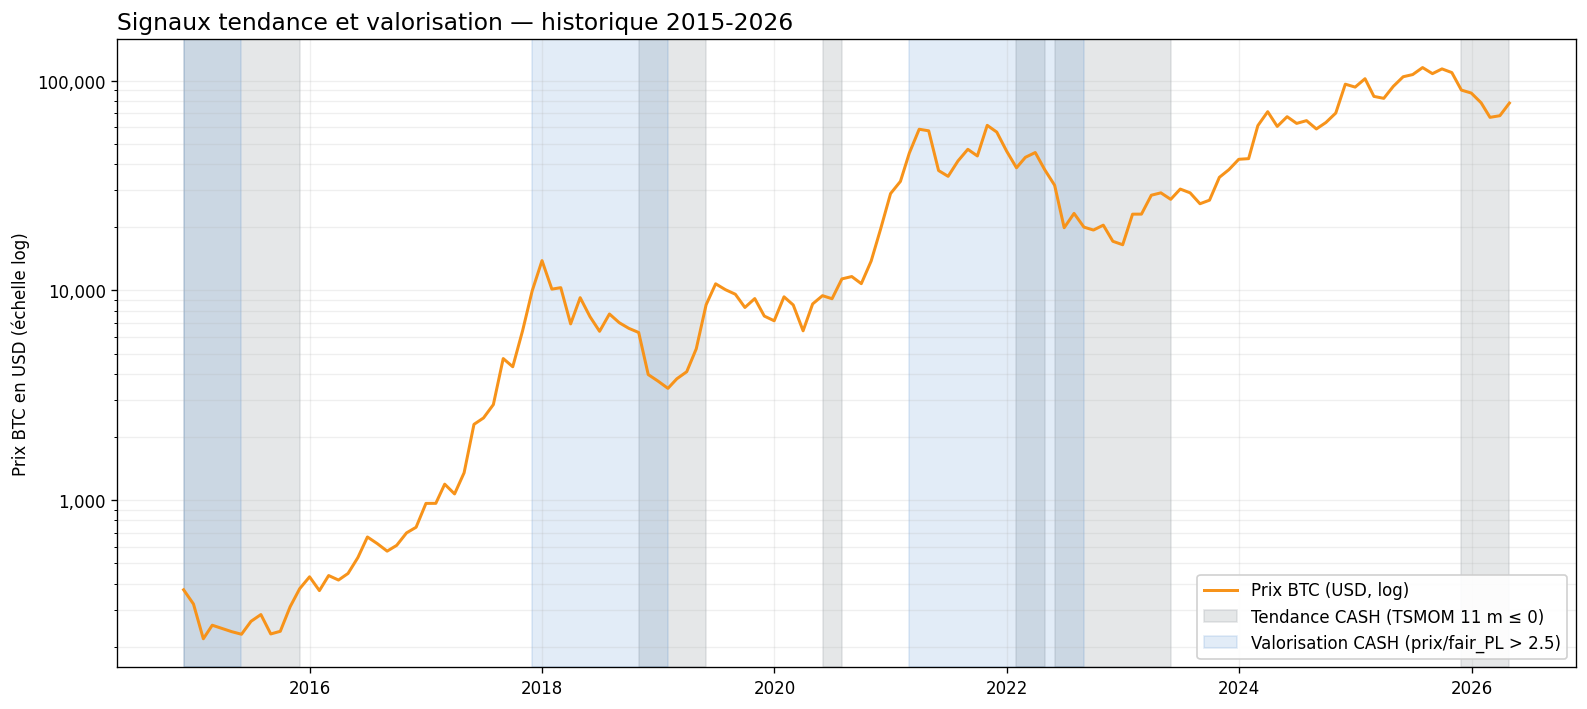
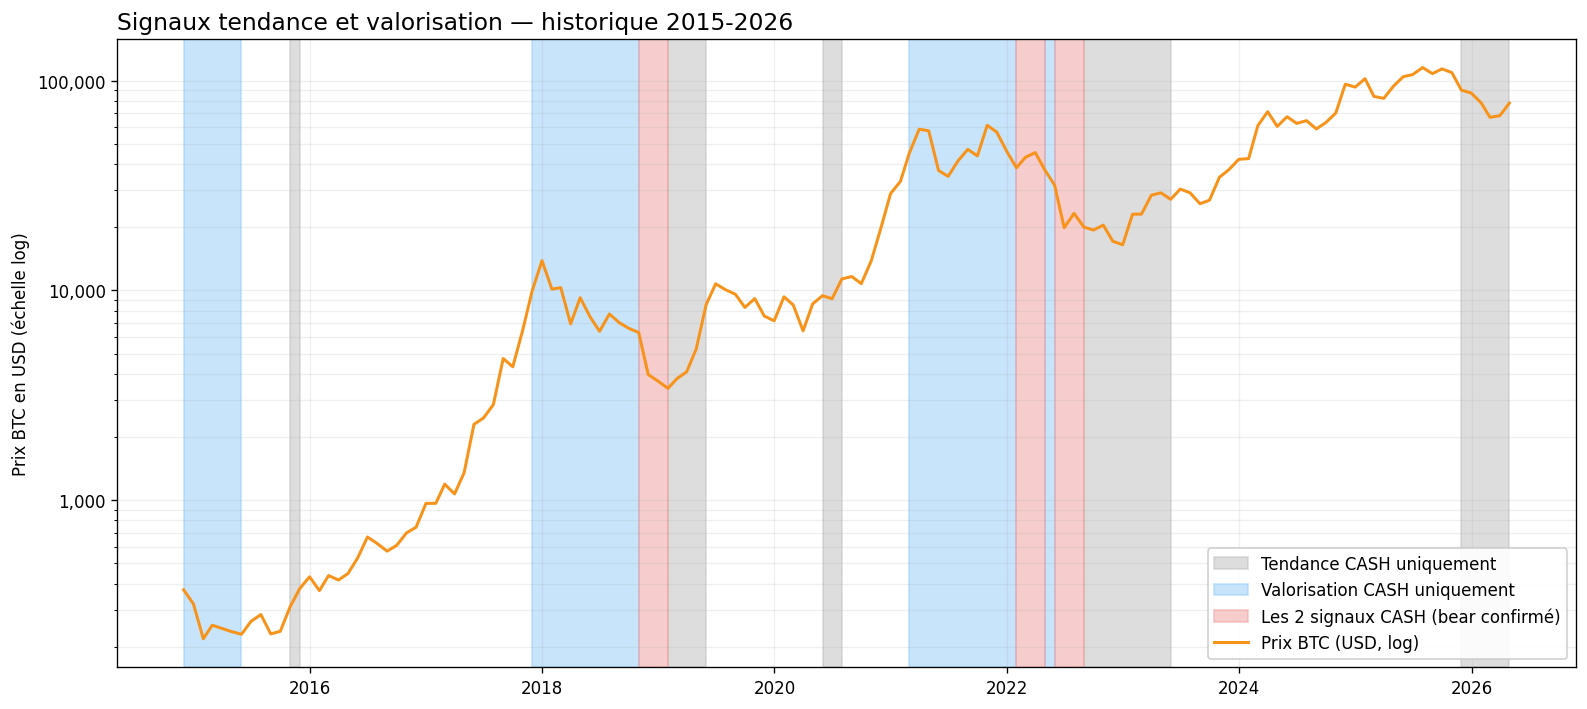
docs(methodologie): recode signaux_history as 3 mutually-exclusive states
The previous 2-colour shading (grey for tendance CASH, blue for
valorisation CASH) produced 3 visual states because the two zones
overlapped, while the legend only listed 2. Reader had to guess that
overlap meant both CASH.

Refactor: a month now falls into exactly one of four buckets, and the
three CASH states each get a dedicated colour + legend entry:

- grey      tendance CASH only, momentum weak, price still reasonable
- blue      valorisation CASH only, price overheated, trend still up
- pink      both signals CASH, bear confirmed, strategy at 0 pct

Caption in methodologie.md updated to match.

diff --git a/engine/src/chillbtc/methodology_figures.py b/engine/src/chillbtc/methodology_figures.py
@@ -46,6 +46,11 @@ BUY_GREEN = "#2E7D32"
 BAND_BLUE = "#1565C0"
 ANNOT_BG = "#FFF8E1"
 
+# Three mutually-exclusive CASH states (tendance, valorisation, both)
+COLOR_TEND_ONLY = "#BDBDBD"   # grey, momentum weak, price still reasonable
+COLOR_VALO_ONLY = "#90CAF9"   # light blue, price overheated, trend still up
+COLOR_BOTH_CASH = "#EF9A9A"   # light red, bear confirmed
+
 
 def _load_monthly() -> pd.DataFrame:
     repo = Path(__file__).resolve().parents[2]
@@ -53,25 +58,42 @@ def _load_monthly() -> pd.DataFrame:
     return pd.read_csv(cache, parse_dates=["date"], index_col="date")
 
 
-def _shade_cash_zones(ax, signal: pd.Series, color: str, alpha: float, label: str) -> None:
-    """Fill between months where the signal is CASH (0)."""
-    s = signal.fillna(0.0).astype(float).to_numpy()
-    dates = signal.index.to_numpy()
-    in_cash = False
-    start = None
-    first = True
-    for i, v in enumerate(s):
-        if v == 0.0 and not in_cash:
-            start = dates[i]
-            in_cash = True
-        elif v == 1.0 and in_cash:
-            ax.axvspan(start, dates[i], color=color, alpha=alpha,
+def _shade_three_states(ax, sig_tend: pd.Series, sig_valo: pd.Series) -> None:
+    """Shade the three mutually-exclusive CASH states with distinct colors.
+
+    Each month falls into exactly one of four buckets (BUY+BUY, tendance CASH
+    only, valorisation CASH only, both CASH). BUY+BUY is left unshaded; the
+    three CASH states each get a dedicated color and a single legend entry.
+    """
+    tend = sig_tend.fillna(1.0).astype(float).to_numpy()
+    valo = sig_valo.fillna(1.0).astype(float).to_numpy()
+    dates = sig_tend.index.to_numpy()
+
+    state_defs = [
+        ("tend_only", (tend == 0) & (valo == 1), COLOR_TEND_ONLY,
+         "Tendance CASH uniquement"),
+        ("valo_only", (tend == 1) & (valo == 0), COLOR_VALO_ONLY,
+         "Valorisation CASH uniquement"),
+        ("both_cash", (tend == 0) & (valo == 0), COLOR_BOTH_CASH,
+         "Les 2 signaux CASH (bear confirmé)"),
+    ]
+    alpha = 0.50
+    for _, mask, color, label in state_defs:
+        in_zone = False
+        start = None
+        first = True
+        for i, on in enumerate(mask):
+            if on and not in_zone:
+                start = dates[i]
+                in_zone = True
+            elif not on and in_zone:
+                ax.axvspan(start, dates[i], color=color, alpha=alpha,
+                           label=label if first else None)
+                first = False
+                in_zone = False
+        if in_zone:
+            ax.axvspan(start, dates[-1], color=color, alpha=alpha,
                        label=label if first else None)
-            first = False
-            in_cash = False
-    if in_cash:
-        ax.axvspan(start, dates[-1], color=color, alpha=alpha,
-                   label=label if first else None)
 
 
 def plot_signaux_history(monthly: pd.DataFrame, out: Path) -> None:
@@ -82,12 +104,9 @@ def plot_signaux_history(monthly: pd.DataFrame, out: Path) -> None:
     )
 
     fig, ax = plt.subplots(figsize=(13.33, 6.0), dpi=120)
+    _shade_three_states(ax, sig_tend, sig_valo)
     ax.semilogy(monthly.index, monthly["close_usd"], color=BTC_ORANGE,
                 linewidth=1.8, label="Prix BTC (USD, log)")
-    _shade_cash_zones(ax, sig_tend, CASH_GREY, 0.25,
-                      "Tendance CASH (TSMOM 11 m ≤ 0)")
-    _shade_cash_zones(ax, sig_valo, BAND_BLUE, 0.12,
-                      "Valorisation CASH (prix/fair_PL > 2.5)")
 
     ax.set_title("Signaux tendance et valorisation — historique 2015-2026",
                  fontsize=14, loc="left")

diff --git a/docs/methodologie.md b/docs/methodologie.md
@@ -67,10 +67,12 @@ Trois moments charnières où la tendance a pesé :
 
 ![Signaux tendance et valorisation — historique 2015-2026](assets/methodology/signaux_history.png)
 
-*Prix BTC en échelle log. Les zones grises marquent les mois où la tendance
-(TSMOM 11 m) est CASH ; les zones bleues, les mois où la valorisation
-(prix/fair_PL > 2,5) est CASH. Les superpositions sont les bear markets
-confirmés, où les 2 signaux disent CASH simultanément.*
+*Prix BTC en échelle log avec les 3 états CASH codés par couleur
+mutuellement exclusive : **gris** = seule la tendance est CASH (momentum
+faible, prix encore raisonnable), **bleu clair** = seule la valorisation
+est CASH (prix surchauffé, tendance encore haussière), **rose** = les 2
+signaux CASH simultanément (bear confirmé). Les zones non ombrées sont
+les mois où les 2 signaux disent BUY.*
 
 ---
 
